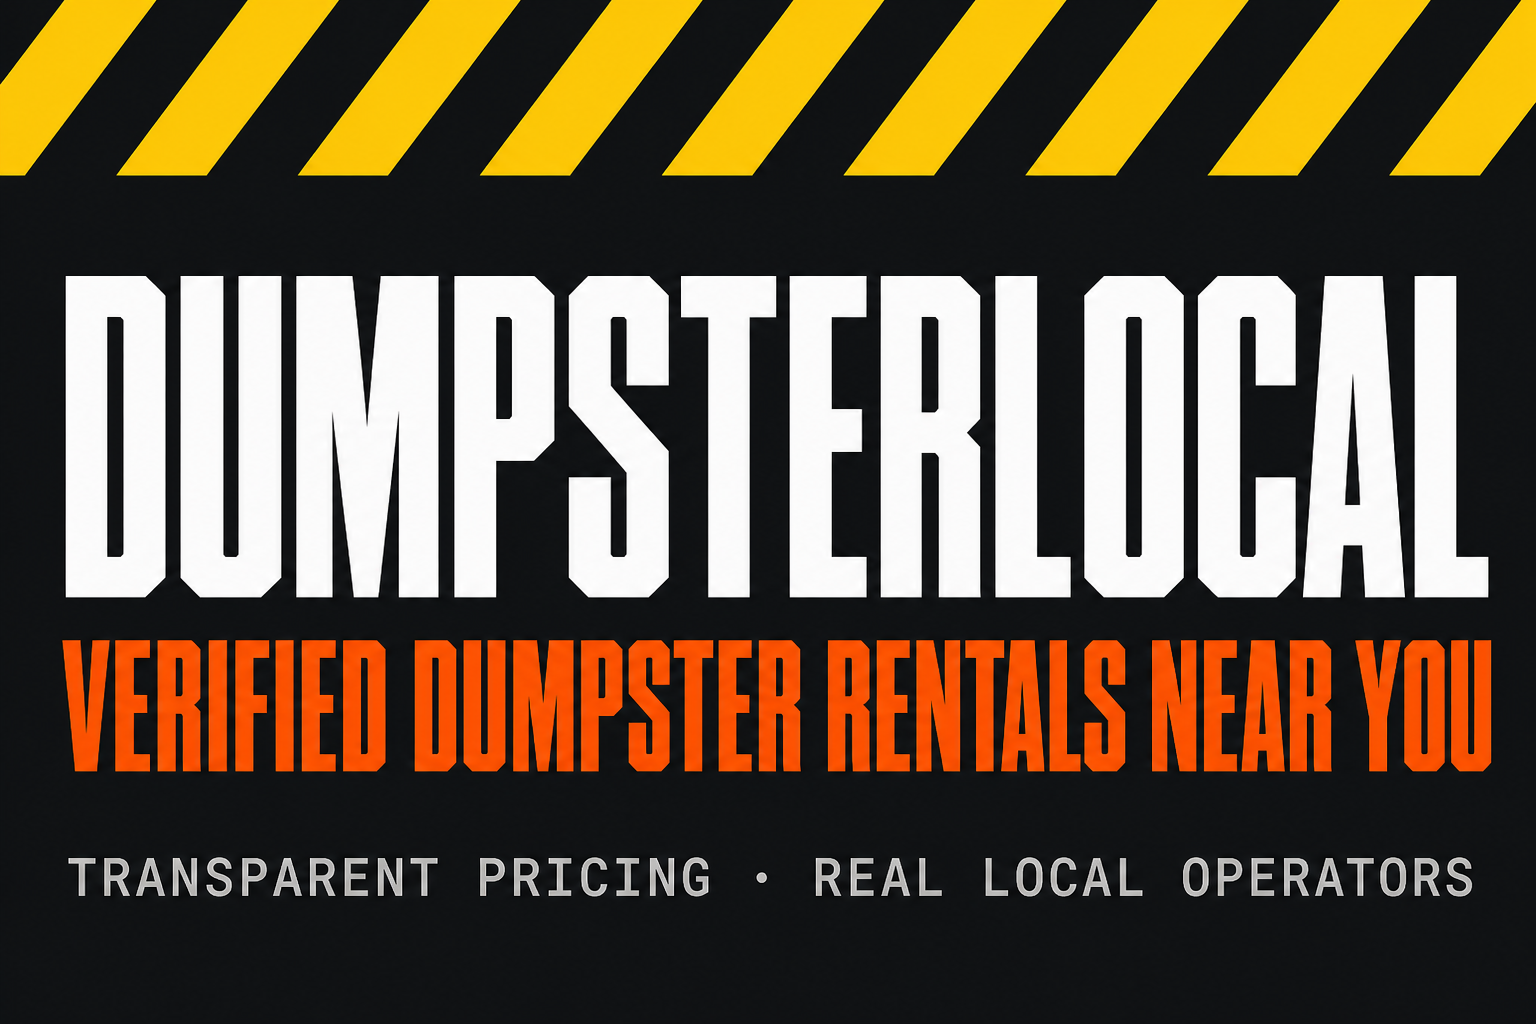
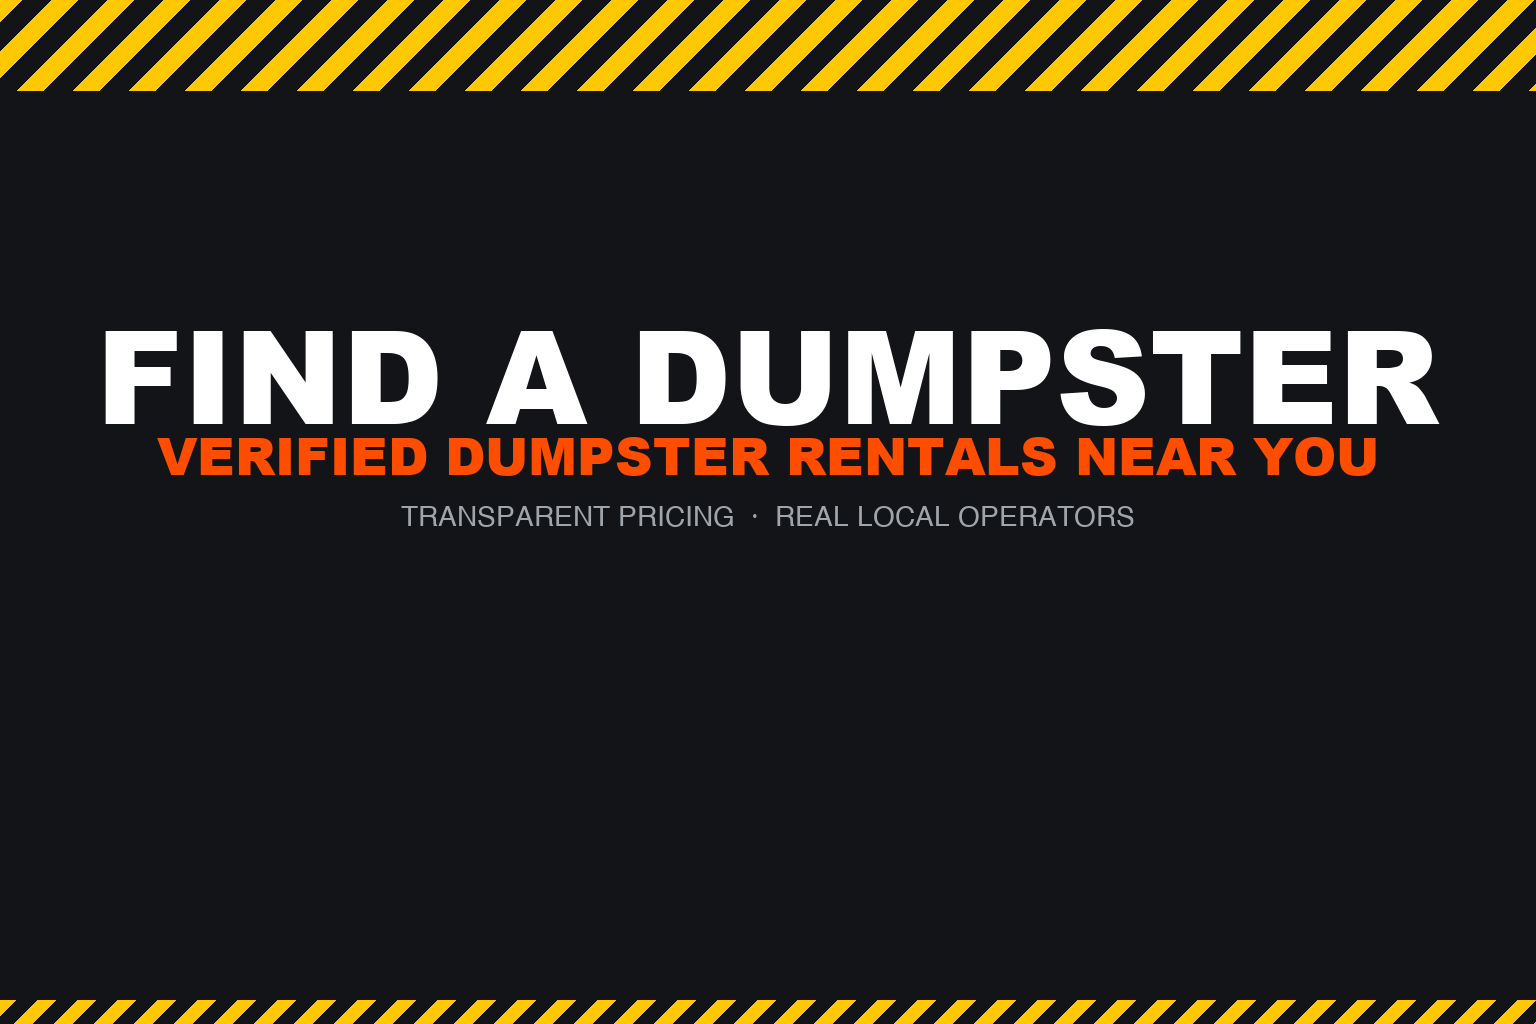
Rename app to Find A Dumpster and worker to findadumpster.
Update brand, domain (findadumpster.net), logos, and copy; point
Wrangler worker name at findadumpster while keeping the existing D1 DB.

diff --git a/src/lib/email.ts b/src/lib/email.ts
@@ -1,4 +1,5 @@
 import { env } from 'cloudflare:workers';
+import { BRAND } from './constants';
 
 type LeadEmailPayload = {
   operatorName: string;
@@ -43,7 +44,7 @@ export async function sendLeadNotification(payload: LeadEmailPayload): Promise<b
     `Timeline: ${payload.timeline ?? '—'}`,
     `Notes: ${payload.notes ?? '—'}`,
     '',
-    '— DumpsterLocal',
+    `— ${BRAND.name}`,
   ].join('\n');
 
   try {
@@ -54,7 +55,7 @@ export async function sendLeadNotification(payload: LeadEmailPayload): Promise<b
         'Content-Type': 'application/json',
       },
       body: JSON.stringify({
-        from: 'DumpsterLocal <onboarding@resend.dev>',
+        from: `${BRAND.name} <onboarding@resend.dev>`,
         to,
         subject,
         text,

diff --git a/src/pages/sitemap.xml.ts b/src/pages/sitemap.xml.ts
@@ -5,7 +5,7 @@ import { cities, operators } from '../lib/schema';
 import { eq } from 'drizzle-orm';
 
 export const GET: APIRoute = async ({ site }) => {
-  const base = site?.toString().replace(/\/$/, '') ?? 'https://dumpsterlocal.com';
+  const base = site?.toString().replace(/\/$/, '') ?? 'https://findadumpster.net';
   const urls: string[] = [
     `${base}/`,
     `${base}/search`,

diff --git a/src/lib/constants.ts b/src/lib/constants.ts
@@ -1,5 +1,5 @@
 export const BRAND = {
-  name: 'DumpsterLocal',
+  name: 'Find A Dumpster',
   tagline: 'Verified local dumpster rentals — transparent pricing, real operators',
   description:
     'Find verified local dumpster rental operators with transparent pricing, permit notes, and driveway-safe options near you.',

diff --git a/ASSUMPTIONS.md b/ASSUMPTIONS.md
@@ -1,8 +1,8 @@
 # Implementation Assumptions
 
-Documented during DumpsterLocal MVP build (PRD v1.0, Cloudflare deploy).
+Documented during Find A Dumpster MVP build (PRD v1.0, Cloudflare deploy).
 
-1. **Brand:** Working name is DumpsterLocal until a final brand/domain is chosen.
+1. **Brand:** Find A Dumpster at findadumpster.net (formerly working name DumpsterLocal).
 2. **Stack deviation from PRD:** Astro 7 + Cloudflare Workers + D1 + Drizzle instead of Next.js + Vercel + Postgres. Chosen for the existing scaffold and Cloudflare deployment requirement.
 3. **Geo:** City/ZIP matching via service-area tables + optional haversine distance from city center to operator HQ. No PostGIS.
 4. **Seeded operators:** Priority metros ship with seeded operator placeholders (all `is_demo = 0`) with placeholder contact info. Every seeded operator has a `SEED PLACEHOLDER` note in `verification_notes`. These must be replaced or fully verified (phone, website, insurance, license) before any production marketing or paid traffic. The broker and pending rows exist for filter/admin workflow testing.

diff --git a/src/content/guides/dumpster-size-guide.md b/src/content/guides/dumpster-size-guide.md
@@ -28,4 +28,4 @@ Dense materials (concrete, dirt, roofing shingles, plaster) fill weight limits l
 
 ## Not sure?
 
-Start with a 15–20 yard for most home projects, and request quotes for two sizes. Local operators on DumpsterLocal list sizes they actually offer so you can compare apples-to-apples.
+Start with a 15–20 yard for most home projects, and request quotes for two sizes. Local operators on Find A Dumpster list sizes they actually offer so you can compare apples-to-apples.

diff --git a/src/content/guides/residential-vs-commercial.md b/src/content/guides/residential-vs-commercial.md
@@ -29,4 +29,4 @@ The same roll-off fleet serves both homes and job sites — but the constraints 
 - What happens if the load is overweight or rejected?
 - Can you protect the surface under the rails?
 
-Filter for **driveway-safe** residential options on DumpsterLocal, or sort by quality score for trusted local haulers.
+Filter for **driveway-safe** residential options on Find A Dumpster, or sort by quality score for trusted local haulers.

diff --git a/src/content/guides/what-can-go-in-a-dumpster.md b/src/content/guides/what-can-go-in-a-dumpster.md
@@ -32,4 +32,4 @@ Many operators offer **concrete/dirt only** or **yard waste only** containers at
 2. Ask what is banned at their dump facility.
 3. Keep hazardous items out of the mix — rejected loads are expensive.
 
-Browse operators by material filter on DumpsterLocal to find haulers that accept your debris type.
+Browse operators by material filter on Find A Dumpster to find haulers that accept your debris type.

diff --git a/src/content/guides/dumpster-rental-cost-factors.md b/src/content/guides/dumpster-rental-cost-factors.md
@@ -23,6 +23,6 @@ category: basics
 - Broker quotes that cannot name the local hauler
 - Pressure to book without confirming prohibited items
 
-## How DumpsterLocal helps
+## How Find A Dumpster helps
 
 We show **typical min–max ranges**, overage notes when available, driveway suitability, and verification dates so you can compare real operators — then request a formal quote with your ZIP, size, and material.

diff --git a/src/content/guides/dumpster-permits-overview.md b/src/content/guides/dumpster-permits-overview.md
@@ -4,7 +4,7 @@ description: When you need a permit for street placement, who pulls it, and how 
 category: local
 ---
 
-Permit rules are local. City pages on DumpsterLocal summarize common patterns — always verify with your municipality.
+Permit rules are local. City pages on Find A Dumpster summarize common patterns — always verify with your municipality.
 
 ## When you usually need a permit
 

diff --git a/README.md b/README.md
@@ -1,6 +1,8 @@
-# DumpsterLocal
+# Find A Dumpster
 
 Verified, hyper-local dumpster rental directory (MVP). Quality and verification over listing volume.
+
+**Site:** [https://findadumpster.net](https://findadumpster.net)
 
 **Stack:** Astro 7 · Cloudflare Workers · D1 · Drizzle · Tailwind · MapLibre
 
